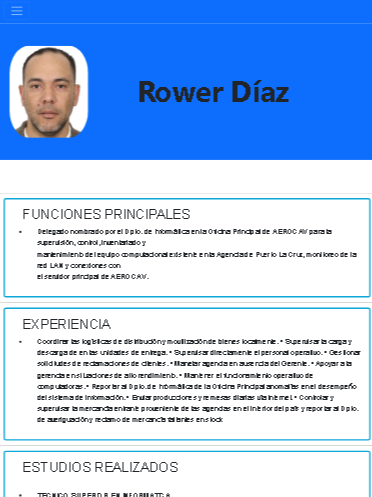
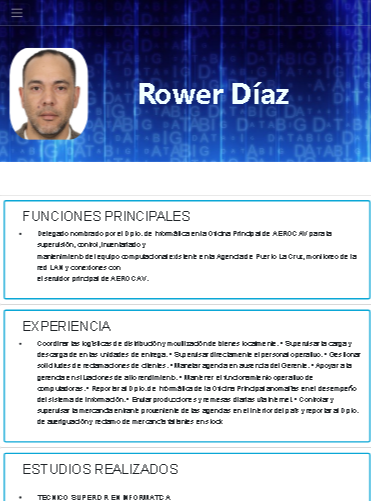
ultimos ajustes

diff --git a/portafolio.html b/portafolio.html
@@ -19,7 +19,7 @@
   <body>
     <header class="p-5 bg-primary">
       <div class="d-flex justify-content-center align-items-center">
-        <h1 class="fw-bold text-center pb-4 pt-sm-4">PORTAFOLIO</h1>
+        <h1 class="fw-bold text-center text-white pb-4 pt-sm-4">PORTAFOLIO</h1>
       </div>
     </header>
     <br />
@@ -96,7 +96,7 @@
         <a
           href="./index.html"
           target="_blank"
-          class="btn btn-primary btn-lg btn-block">
+          class="btn btn-sm btn-lg btn-block">
           Volver al inicio
         </a>
       </button>

diff --git a/assets/css/portafolio.css b/assets/css/portafolio.css
@@ -1,7 +1,13 @@
 .card-size {
-    width: 100%;
-    height: 70px;
-    margin-bottom:3%;
-  }
+  width: 100%;
+  height: 70px;
+  margin-bottom: 3%;
+}
 
-  
+header {
+  background-image: url(/assets/img/big-data-7645200_1280.jpg);
+}
+
+body {
+  background-image: url(/assets/img/big-data-7645200_1280.jpg);
+}
